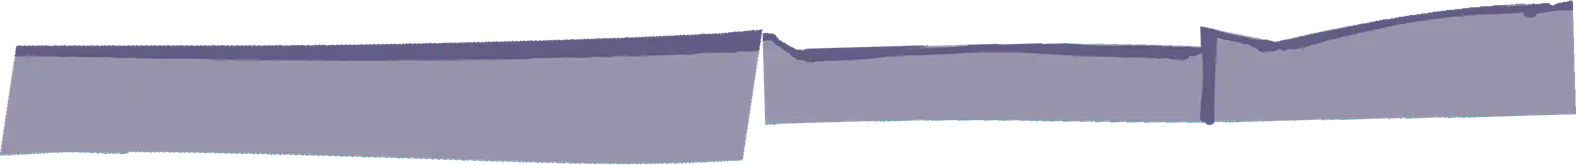
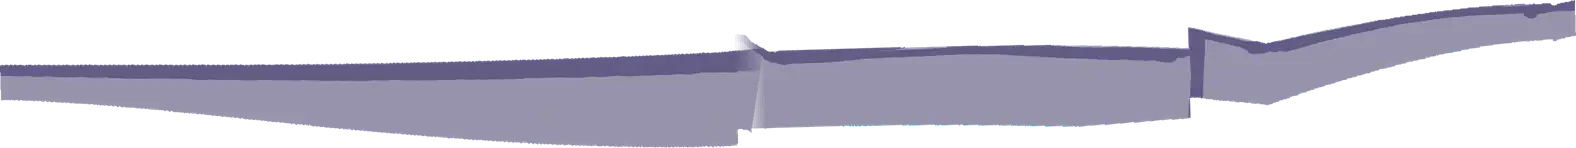
Final band: island underside with a bulging profile and a cross-faded join

diff --git a/app/assets/stylesheets/landing_world_final.css b/app/assets/stylesheets/landing_world_final.css
@@ -62,7 +62,7 @@
 }
 
 /* The island's underside: 1576 wu wide, its top lip a little above the shore's edge so the shore's clip trims it to the edge. */
-.landing .world--final .island__face { position: absolute; left: 50%; top: calc(var(--wu) * -6); width: calc(var(--wu) * 1576); height: auto; max-width: none; translate: -50% 0; }
+.landing .world--final .island__face { position: absolute; left: 50%; top: calc(var(--wu) * -29); width: calc(var(--wu) * 1576); height: auto; max-width: none; translate: -50% 0; }
 
 /*
  * SLOT FOR A PAINTING (empty on purpose; a painting would replace the sky and clouds, keep or drop the island strip). To drop one in, add to _final.html.erb, after the water layer:
